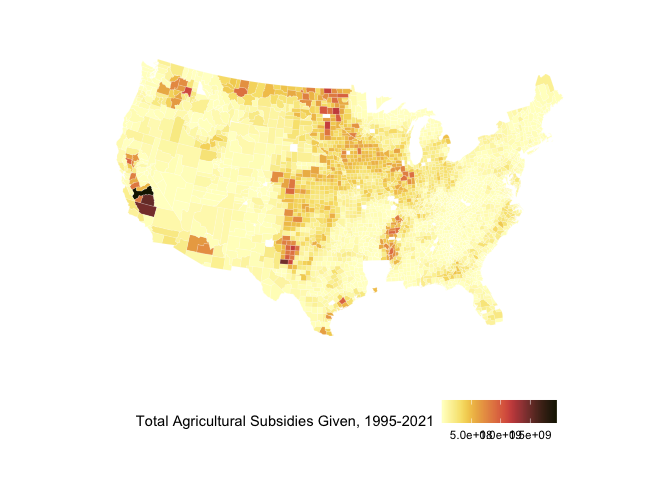
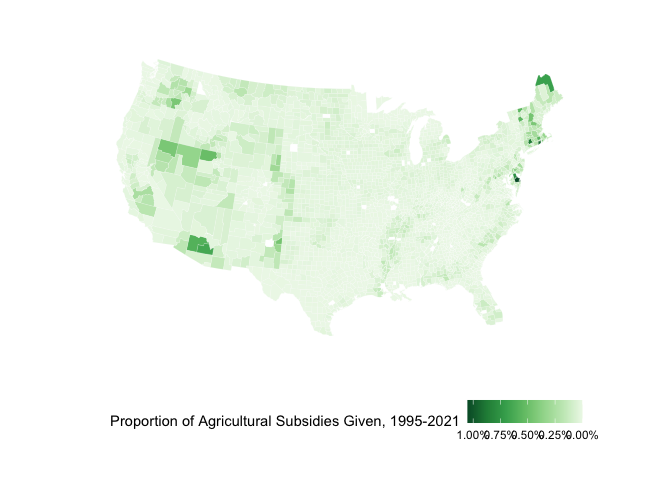
adapted cleaning procedure in prep for spatial join to also cover Louisiana parishes, looked at state-level mean and total subsidy payments

Changed region(s): [[0.1562, 0.125, 0.8438, 0.7188], [0.1562, 0.8125, 0.875, 0.9375]]

diff --git a/analysis/analysis-script.md b/analysis/analysis-script.md
@@ -17,8 +17,19 @@ library(tidyverse)
     ## ✖ dplyr::lag()    masks stats::lag()
 
 ``` r
-library(scico)
+library(scales)
 ```
+
+    ## 
+    ## Attaching package: 'scales'
+    ## 
+    ## The following object is masked from 'package:purrr':
+    ## 
+    ##     discard
+    ## 
+    ## The following object is masked from 'package:readr':
+    ## 
+    ##     col_factor
 
 library(usmap) library(maps) library(socviz)
 
@@ -79,7 +90,7 @@ read_csv("/Users/kenjinchang/github/seasonality-of-us-meat-consumption/data/coun
     ## 5 Wharton County, Texas                 954867910            0.021 TX      Texas
     ## # … with abbreviated variable name ¹state_abb
 
-Shapefile Data
+County Shapefile Data
 
 ``` r
 map_data("county") %>%
@@ -209,29 +220,14 @@ us_counties <- map_data("county")
 ```
 
 ``` r
-ggplot(us_counties,aes(x=long,y=lat,group=group,fill=subregion)) + 
-  geom_polygon(color="gray90",linewidth=0.1) +
-  coord_map(projection="albers",lat0=39,lat1=45) +
-  guides(fill="none")+
-  theme(axis.line=element_blank(),
-        axis.text=element_blank(),
-        axis.ticks=element_blank(),
-        axis.title=element_blank(),
-        panel.background=element_blank(),
-        panel.border=element_blank(),
-        panel.grid=element_blank())
-```
-
-![](analysis-script_files/figure-gfm/unnamed-chunk-11-1.png)<!-- -->
-
-``` r
 county_data <- read_csv("/Users/kenjinchang/github/seasonality-of-us-meat-consumption/data/county_data.csv") %>%
   mutate(county_no_state=gsub("(.*),.*","\\1",county)) %>%
-  mutate(county_abb=str_remove_all(county_no_state, " County")) %>%
+  mutate(county_abb=str_remove_all(county_no_state, " County| Parish")) %>%
   mutate(state=tolower(state),county_abb=tolower(county_abb)) %>%
   unite(id,c("state","county_abb"),sep=", ",remove=FALSE) %>%
-  select(id,total_subsidies_1995_2021,perc_state_total) %>%
-  mutate(perc_natl_total=perc_state_total/sum(perc_state_total))
+  select(id,state,county_abb,total_subsidies_1995_2021,perc_state_total) %>%
+  mutate(perc_natl_total=perc_state_total/sum(perc_state_total)) %>%
+  mutate(total_subsidies_1995_2021_bil=total_subsidies_1995_2021/1000000000)
 ```
 
     ## Rows: 3055 Columns: 5
@@ -248,15 +244,17 @@ county_data %>%
   head(6)
 ```
 
-    ## # A tibble: 6 × 4
-    ##   id             total_subsidies_1995_2021 perc_state_total perc_natl_total
-    ##   <chr>                              <dbl>            <dbl>           <dbl>
-    ## 1 texas, gaines                 1476802523            0.033        0.000696
-    ## 2 texas, hale                   1159637316            0.026        0.000549
-    ## 3 texas, dawson                 1110737641            0.025        0.000528
-    ## 4 texas, terry                   987748081            0.022        0.000464
-    ## 5 texas, wharton                 954867910            0.021        0.000443
-    ## 6 texas, lamb                    928633397            0.021        0.000443
+    ## # A tibble: 6 × 7
+    ##   id             state county_abb total_subsidies_1995…¹ perc_…² perc_…³ total…⁴
+    ##   <chr>          <chr> <chr>                       <dbl>   <dbl>   <dbl>   <dbl>
+    ## 1 texas, gaines  texas gaines                 1476802523   0.033 6.96e-4   1.48 
+    ## 2 texas, hale    texas hale                   1159637316   0.026 5.49e-4   1.16 
+    ## 3 texas, dawson  texas dawson                 1110737641   0.025 5.28e-4   1.11 
+    ## 4 texas, terry   texas terry                   987748081   0.022 4.64e-4   0.988
+    ## 5 texas, wharton texas wharton                 954867910   0.021 4.43e-4   0.955
+    ## 6 texas, lamb    texas lamb                    928633397   0.021 4.43e-4   0.929
+    ## # … with abbreviated variable names ¹total_subsidies_1995_2021,
+    ## #   ²perc_state_total, ³perc_natl_total, ⁴total_subsidies_1995_2021_bil
 
 ``` r
 county_map <- map_data("county") %>%
@@ -279,27 +277,47 @@ county_full %>%
   head(6)
 ```
 
-    ##        long      lat group order               id  region subregion
-    ## 1 -86.50517 32.34920     1     1 alabama, autauga alabama   autauga
-    ## 2 -86.53382 32.35493     1     2 alabama, autauga alabama   autauga
-    ## 3 -86.54527 32.36639     1     3 alabama, autauga alabama   autauga
-    ## 4 -86.55673 32.37785     1     4 alabama, autauga alabama   autauga
-    ## 5 -86.57966 32.38357     1     5 alabama, autauga alabama   autauga
-    ## 6 -86.59111 32.37785     1     6 alabama, autauga alabama   autauga
-    ##   total_subsidies_1995_2021 perc_state_total perc_natl_total
-    ## 1                  61027557            0.012    0.0002532554
-    ## 2                  61027557            0.012    0.0002532554
-    ## 3                  61027557            0.012    0.0002532554
-    ## 4                  61027557            0.012    0.0002532554
-    ## 5                  61027557            0.012    0.0002532554
-    ## 6                  61027557            0.012    0.0002532554
+    ##        long      lat group order               id  region subregion   state
+    ## 1 -86.50517 32.34920     1     1 alabama, autauga alabama   autauga alabama
+    ## 2 -86.53382 32.35493     1     2 alabama, autauga alabama   autauga alabama
+    ## 3 -86.54527 32.36639     1     3 alabama, autauga alabama   autauga alabama
+    ## 4 -86.55673 32.37785     1     4 alabama, autauga alabama   autauga alabama
+    ## 5 -86.57966 32.38357     1     5 alabama, autauga alabama   autauga alabama
+    ## 6 -86.59111 32.37785     1     6 alabama, autauga alabama   autauga alabama
+    ##   county_abb total_subsidies_1995_2021 perc_state_total perc_natl_total
+    ## 1    autauga                  61027557            0.012    0.0002532554
+    ## 2    autauga                  61027557            0.012    0.0002532554
+    ## 3    autauga                  61027557            0.012    0.0002532554
+    ## 4    autauga                  61027557            0.012    0.0002532554
+    ## 5    autauga                  61027557            0.012    0.0002532554
+    ## 6    autauga                  61027557            0.012    0.0002532554
+    ##   total_subsidies_1995_2021_bil
+    ## 1                    0.06102756
+    ## 2                    0.06102756
+    ## 3                    0.06102756
+    ## 4                    0.06102756
+    ## 5                    0.06102756
+    ## 6                    0.06102756
 
 ``` r
-ggplot(county_full,aes(x=long,y=lat,fill=total_subsidies_1995_2021,group=group)) + 
+ggplot(county_full,aes(x=long,y=lat,fill=total_subsidies_1995_2021_bil,group=group)) + 
   geom_polygon(color="white",linewidth=0.05) +
   coord_map(projection="albers",lat0=39,lat1=45) + 
-  scale_fill_scico(palette="lajolla",na.value="white") +
+  scale_fill_distiller(palette="Greens",trans="reverse",na.value="white") +
   labs(fill="Total Agricultural Subsidies Given, 1995-2021") +
+  xlab("") + 
+  ylab("") +
+  theme(legend.position="bottom",panel.grid=element_blank(),panel.background=element_blank(),axis.text=element_blank(),axis.ticks=element_blank())
+```
+
+![](analysis-script_files/figure-gfm/unnamed-chunk-14-1.png)<!-- -->
+
+``` r
+ggplot(county_full,aes(x=long,y=lat,fill=perc_natl_total,group=group)) + 
+  geom_polygon(color="white",linewidth=0.05) +
+  coord_map(projection="albers",lat0=39,lat1=45) + 
+  scale_fill_distiller(palette="Greens",trans="reverse",na.value="white",labels=percent) +
+  labs(fill="Proportion of Agricultural Subsidies Given, 1995-2021") +
   xlab("") + 
   ylab("") +
   theme(legend.position="bottom",panel.grid=element_blank(),panel.background=element_blank(),axis.text=element_blank(),axis.ticks=element_blank())
@@ -308,16 +326,21 @@ ggplot(county_full,aes(x=long,y=lat,fill=total_subsidies_1995_2021,group=group))
 ![](analysis-script_files/figure-gfm/unnamed-chunk-15-1.png)<!-- -->
 
 ``` r
-ggplot(county_full,aes(x=long,y=lat,fill=perc_natl_total,group=group)) + 
-  geom_polygon(color="white",linewidth=0.05) +
-  coord_map(projection="albers",lat0=39,lat1=45) + 
-  scale_fill_distiller(palette="OrRdBr",na.value="white") +
-  labs(fill="Proportion of Agricultural Subsidies Given, 1995-2021") +
-  xlab("") + 
-  ylab("") +
-  theme(legend.position="bottom",panel.grid=element_blank(),panel.background=element_blank(),axis.text=element_blank(),axis.ticks=element_blank())
+county_data %>%
+  group_by(state) %>%
+  summarize(mean_subsidies_1995_2021=mean(total_subsidies_1995_2021)) %>%
+  ggplot(aes(x=mean_subsidies_1995_2021,y=reorder(state,mean_subsidies_1995_2021))) + 
+  geom_col()
 ```
 
-    ## Warning in pal_name(palette, type): Unknown palette OrRdBr
-
 ![](analysis-script_files/figure-gfm/unnamed-chunk-16-1.png)<!-- -->
+
+``` r
+county_data %>%
+  group_by(state) %>%
+  summarize(state_subsidies_1995_2021=sum(total_subsidies_1995_2021)) %>%
+  ggplot(aes(x=state_subsidies_1995_2021,y=reorder(state,state_subsidies_1995_2021))) + 
+  geom_col()
+```
+
+![](analysis-script_files/figure-gfm/unnamed-chunk-17-1.png)<!-- -->
